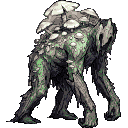
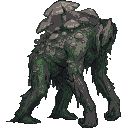
Revert the pixelate changes; restore the previous sprite output
The last pass changed three things at once — a chroma-key path, a lifted
ramp floor, and a per-subject contrast stretch — and on balance it made the
set worse. The lifted floor in particular turned dark edge pixels into a
visible grey fringe, so creatures that had been sitting cleanly on the panel
colour picked up backgrounds.

tool/pixelate.py, the prompts and art/README.md are back to fbf19df~1, and
all eleven sprites are regenerated with the previous settings.

⚠ Changing three variables in one pass is what made this hard to judge and
hard to unpick. One at a time from here.

The Hollow Stag's missing antlers are unaffected by any of this — rembg
removed them during background removal, before the palette is involved.

diff --git a/tool/pixelate.py b/tool/pixelate.py
@@ -87,35 +87,11 @@ BACKGROUND_DESATURATE = 0.45
 ALPHA_CUTOFF = 128
 
 
-# ⭐ Chroma key. Nothing in a natural bestiary is magenta, so it can never be
-# confused with the subject — including a birch-WHITE creature, which a white
-# background would eat.
-KEY_COLOUR = (255, 0, 255)
-KEY_TOLERANCE = 60
-
-
-def key_out(img: "Image.Image", tol: int = KEY_TOLERANCE) -> "Image.Image":
-    """Removes an exact background colour.
-
-    ⭐ **Lossless on the subject, and it keeps thin structures.** `rembg` is a
-    segmentation model and it guesses: it ate the Hollow Stag's antlers whole,
-    because branching shapes against a low-contrast background read as
-    background. A colour key cannot make that mistake.
-    """
-    px = np.asarray(img.convert("RGBA")).astype(np.int16)
-    dist = np.abs(px[:, :, :3] - np.array(KEY_COLOUR, dtype=np.int16)).sum(axis=2)
-    px[:, :, 3] = np.where(dist <= tol, 0, px[:, :, 3])
-    return Image.fromarray(px.astype(np.uint8), "RGBA")
-
-
 def cut_out(img: "Image.Image") -> "Image.Image":
     """Removes the background, leaving the subject on alpha.
 
-    ⚠ **Prefer `--key`.** This is a segmentation model and it guesses; on the
-    Hollow Stag it removed the antlers entirely. Use it only for art that was
-    generated without a keyable background.
-
-    ⚠ Lazily imported — `rembg` pulls in onnxruntime and a 176 MB model.
+    ⚠ Optional and lazily imported — `rembg` pulls in onnxruntime and a model
+    download, which is a lot to force on someone whose art already has alpha.
     """
     try:
         from rembg import remove
@@ -153,11 +129,7 @@ def element_colours() -> dict[str, tuple[int, int, int]]:
 def build_ramp(
     rgb: tuple[int, int, int],
     steps: int,
-    # ⚠ **Not near-black.** A ramp bottoming out at the panel colour crushes
-    # any creature that is mostly mid-tone — The Standing Green is green from
-    # head to foot, and the dark half of the Flora ramp swallowed its interior
-    # entirely. A lifted floor keeps detail inside the silhouette.
-    shadow: tuple[int, int, int] = (46, 42, 58),
+    shadow: tuple[int, int, int] = (18, 14, 26),
     light: tuple[int, int, int] = (255, 250, 240),
 ) -> list[tuple[int, int, int]]:
     """A dark-to-light ramp through one colour.
@@ -211,13 +183,10 @@ def to_sprite(
     palette: list[tuple[int, int, int]],
     size: int,
     cutout: bool = False,
-    key: bool = False,
 ) -> Image.Image:
     img = Image.open(src).convert("RGBA")
 
-    if key:
-        img = key_out(img)
-    elif cutout:
+    if cutout:
         img = cut_out(img).convert("RGBA")
 
     # ⚠ Alpha first, and kept out of the colour maths entirely.
@@ -239,12 +208,6 @@ def to_sprite(
 
     # Harden the edge before quantising, or the palette learns the halo.
     alpha = alpha.point(lambda a: 255 if a >= ALPHA_CUTOFF else 0)
-
-    # ⭐ Stretch the subject's own range to fill the ramp, measured over the
-    # OPAQUE pixels only. A flatly-lit generation uses a narrow band of values,
-    # and quantising that directly throws away most of the palette — which is
-    # what "the pixelate process removed details" actually was.
-    img = _stretch(img, alpha)
 
     # Remap colour onto the element palette. ⚠ dither=NONE.
     pal_img = Image.new("P", (1, 1))
@@ -315,20 +278,6 @@ def run_backgrounds(zone: str) -> None:
     print(f"  {matches[0].name} -> {dst.relative_to(ROOT)}  ({w}x{h})")
 
 
-def _stretch(img: "Image.Image", alpha: "Image.Image") -> "Image.Image":
-    """Linear contrast stretch over the subject, ignoring transparency."""
-    rgb = np.asarray(img.convert("RGB")).astype(np.float32)
-    mask = np.asarray(alpha) >= ALPHA_CUTOFF
-    if mask.sum() < 16:
-        return img
-    lum = rgb @ np.array([0.299, 0.587, 0.114], dtype=np.float32)
-    lo, hi = np.percentile(lum[mask], (2, 98))
-    if hi - lo < 8:
-        return img  # already flat; stretching would only amplify noise
-    scaled = (rgb - lo) * (255.0 / (hi - lo))
-    return Image.fromarray(scaled.clip(0, 255).astype(np.uint8), "RGB")
-
-
 def main() -> None:
     ap = argparse.ArgumentParser(description=__doc__)
     ap.add_argument("--zone", required=True, help="e.g. whispering_woods")
@@ -340,16 +289,9 @@ def main() -> None:
     ap.add_argument("--element", help="e.g. flora — creature mode only")
     ap.add_argument("--size", type=int, default=DEFAULT_SIZE)
     ap.add_argument(
-        "--key",
-        action="store_true",
-        help="remove a flat magenta background (preferred — exact, keeps "
-        "thin structures like antlers)",
-    )
-    ap.add_argument(
         "--cutout",
         action="store_true",
-        help="strip the background with rembg (guesses; use only when the art "
-        "has no keyable background)",
+        help="strip the background first (needed for generated scenes)",
     )
     args = ap.parse_args()
 
@@ -383,16 +325,14 @@ def main() -> None:
         if f.suffix.lower() in {".png", ".jpg", ".jpeg", ".webp"}
     )
     for src in sources:
-        sprite = to_sprite(
-            src, palette, args.size, cutout=args.cutout, key=args.key
-        )
+        sprite = to_sprite(src, palette, args.size, cutout=args.cutout)
         # ⭐ Always .png out, whatever went in — the creature id is the stem.
         dst = out_dir / f"{src.stem}.png"
         sprite.save(dst)
         made.append(src.stem)
         print(f"  {src.name} -> {dst.relative_to(ROOT)}  ({args.size}x{args.size})")
 
-    if made and not (args.cutout or args.key):
+    if made and not args.cutout:
         print(
             "\n⚠  ran without --cutout. If the source art has a background, "
             "it has just been pixelated along with the creature."

diff --git a/art/prompts/whispering_woods.md b/art/prompts/whispering_woods.md
@@ -1,36 +1,23 @@
 # Image prompts — Whispering Woods
 
 ⭐ **Paste-ready.** Each block is a complete prompt: house style plus that
-creature's description.
+creature's description. Nothing to stitch together.
 
-## ⚠ Generate on a FLAT MAGENTA background
+**Generate at 1024×1024**, transparent background if your tool supports it. If
+not, run `rembg` before the pipeline — the alpha handling assumes the
+background is already gone.
 
-The style line asks for pure `#FF00FF`, and that is load-bearing.
-
-⚠ **This replaces an earlier "plain mid-dark background", which cost real
-art.** Background removal was being done by `rembg`, a segmentation model that
-guesses — and against a low-contrast grey it **removed the Hollow Stag's
-antlers entirely**, branches, leaves and all. The sprite shipped as a stag with
-a bare head and nothing in the pipeline could recover it.
-
-⭐ **Magenta cannot be confused with anything in a forest bestiary**, so the
-background comes off with an exact colour key instead of a guess — lossless on
-the subject, and thin structures survive. ⚠ **White would not do**: the
-Listening Fawn is birch-white, and a white key would eat its body.
-
-**Generate at 1024×1024 or larger.** Save under the id in each heading, into
-`art/source/whispering_woods/`, then:
+⚠ **Save each file under the id in its heading**, into
+`art/source/whispering_woods/`. A test asserts art and roster agree in both
+directions, so a mistyped name fails the build rather than silently rendering
+nothing.
 
 ```sh
-python3 tool/pixelate.py --zone whispering_woods --element flora --key
+python3 tool/pixelate.py --zone whispering_woods --element flora
 ```
 
-⚠ `--key` for magenta art. `--cutout` is the old `rembg` path and remains only
-for art generated without a keyable background — it is the one that ate the
-antlers.
-
 ⚠ Descriptions come from [../../docs/BESTIARY_ART.md](../../docs/BESTIARY_ART.md).
-Edit them there and regenerate this file, or the two drift.
+Edit them there and regenerate this file, or the two will drift.
 
 ---
 
@@ -39,7 +26,7 @@ Edit them there and regenerate this file, or the two drift.
 `listening_fawn.png` — *common · Drudge · Flora*
 
 ```
-Digital illustration in the style of a naturalist's field plate. The creature is isolated on a COMPLETELY FLAT, SOLID, PURE MAGENTA background (hex #FF00FF) - a chroma key backdrop. Absolutely no scenery, no ground, no shadow cast on the background, no gradient, no vignette, no text, no border. Full body, three-quarter view, neutral standing pose, even diffuse lighting. Every part of the creature fully inside the frame, including thin extremities like antlers, horns and tendrils. Clear readable silhouette, strong value contrast between the creature and the magenta. Muted natural palette dominated by greens and bark browns. A deer-shaped creature the size of a large dog, woven from pale root and birch bark rather than flesh. Its legs are bundled rootlets; its joints bend like green wood. It has no eyes and no mouth - the head is a smooth knot of grain, tilted downward, with two long leaf-shaped ears angled at the ground. Moss over the shoulders. Standing still, head lowered, listening.
+Digital illustration in the style of a naturalist's field plate. The creature is isolated on a plain, flat, mid-dark background - no scenery, no ground line, no text, no border. Full body, three-quarter view, neutral standing pose, even diffuse lighting, no dramatic shadows. Clear readable silhouette. Muted natural palette dominated by greens and bark browns. A deer-shaped creature the size of a large dog, woven from pale root and birch bark rather than flesh. Its legs are bundled rootlets; its joints bend like green wood. It has no eyes and no mouth - the head is a smooth knot of grain, tilted downward, with two long leaf-shaped ears angled at the ground. Moss over the shoulders. Standing still, head lowered, listening.
 ```
 
 ## Thornback Sprite
@@ -47,7 +34,7 @@ Digital illustration in the style of a naturalist's field plate. The creature is
 `thornback_sprite.png` — *common · Skirmisher · Flora*
 
 ```
-Digital illustration in the style of a naturalist's field plate. The creature is isolated on a COMPLETELY FLAT, SOLID, PURE MAGENTA background (hex #FF00FF) - a chroma key backdrop. Absolutely no scenery, no ground, no shadow cast on the background, no gradient, no vignette, no text, no border. Full body, three-quarter view, neutral standing pose, even diffuse lighting. Every part of the creature fully inside the frame, including thin extremities like antlers, horns and tendrils. Clear readable silhouette, strong value contrast between the creature and the magenta. Muted natural palette dominated by greens and bark browns. A knee-high humanoid of tangled green briar, wiry and hunched, with long thin arms. A ridge of black thorns runs from the crown of its head down its spine. Small, dark, wet-looking eyes set deep in a face of woven stems. Caught mid-stride, low to the ground, as if about to bolt sideways.
+Digital illustration in the style of a naturalist's field plate. The creature is isolated on a plain, flat, mid-dark background - no scenery, no ground line, no text, no border. Full body, three-quarter view, neutral standing pose, even diffuse lighting, no dramatic shadows. Clear readable silhouette. Muted natural palette dominated by greens and bark browns. A knee-high humanoid of tangled green briar, wiry and hunched, with long thin arms. A ridge of black thorns runs from the crown of its head down its spine. Small, dark, wet-looking eyes set deep in a face of woven stems. Caught mid-stride, low to the ground, as if about to bolt sideways.
 ```
 
 ## Sporecap Shambler
@@ -55,7 +42,7 @@ Digital illustration in the style of a naturalist's field plate. The creature is
 `sporecap_shambler.png` — *common · Blighter · Flora*
 
 ```
-Digital illustration in the style of a naturalist's field plate. The creature is isolated on a COMPLETELY FLAT, SOLID, PURE MAGENTA background (hex #FF00FF) - a chroma key backdrop. Absolutely no scenery, no ground, no shadow cast on the background, no gradient, no vignette, no text, no border. Full body, three-quarter view, neutral standing pose, even diffuse lighting. Every part of the creature fully inside the frame, including thin extremities like antlers, horns and tendrils. Clear readable silhouette, strong value contrast between the creature and the magenta. Muted natural palette dominated by greens and bark browns. A slumped, roughly man-shaped mass of decaying wood and leaf litter, waist to chest height, walking on knuckles. Its whole back and shoulders are crowded with pale grey-brown mushroom caps of varying size, the largest split and leaking a fine dust. No visible face. Damp, dark, crumbling at the edges.
+Digital illustration in the style of a naturalist's field plate. The creature is isolated on a plain, flat, mid-dark background - no scenery, no ground line, no text, no border. Full body, three-quarter view, neutral standing pose, even diffuse lighting, no dramatic shadows. Clear readable silhouette. Muted natural palette dominated by greens and bark browns. A slumped, roughly man-shaped mass of decaying wood and leaf litter, waist to chest height, walking on knuckles. Its whole back and shoulders are crowded with pale grey-brown mushroom caps of varying size, the largest split and leaking a fine dust. No visible face. Damp, dark, crumbling at the edges.
 ```
 
 ## Bindweed Creeper
@@ -63,7 +50,7 @@ Digital illustration in the style of a naturalist's field plate. The creature is
 `bindweed_creeper.png` — *common · **Siphon** · Flora*
 
 ```
-Digital illustration in the style of a naturalist's field plate. The creature is isolated on a COMPLETELY FLAT, SOLID, PURE MAGENTA background (hex #FF00FF) - a chroma key backdrop. Absolutely no scenery, no ground, no shadow cast on the background, no gradient, no vignette, no text, no border. Full body, three-quarter view, neutral standing pose, even diffuse lighting. Every part of the creature fully inside the frame, including thin extremities like antlers, horns and tendrils. Clear readable silhouette, strong value contrast between the creature and the magenta. Muted natural palette dominated by greens and bark browns. A writhing knot of pale green vine about the size of a curled dog, moving as a single mass with no head. White trumpet-shaped flowers open along its length. The vine tips are fine, pink and rootlike, and they end in small sucking mouths - the one detail that must read clearly, because it is what the creature does.
+Digital illustration in the style of a naturalist's field plate. The creature is isolated on a plain, flat, mid-dark background - no scenery, no ground line, no text, no border. Full body, three-quarter view, neutral standing pose, even diffuse lighting, no dramatic shadows. Clear readable silhouette. Muted natural palette dominated by greens and bark browns. A writhing knot of pale green vine about the size of a curled dog, moving as a single mass with no head. White trumpet-shaped flowers open along its length. The vine tips are fine, pink and rootlike, and they end in small sucking mouths - the one detail that must read clearly, because it is what the creature does.
 ```
 
 ## Rootknuckle
@@ -71,7 +58,7 @@ Digital illustration in the style of a naturalist's field plate. The creature is
 `rootknuckle.png` — *common · Bruiser · Flora*
 
 ```
-Digital illustration in the style of a naturalist's field plate. The creature is isolated on a COMPLETELY FLAT, SOLID, PURE MAGENTA background (hex #FF00FF) - a chroma key backdrop. Absolutely no scenery, no ground, no shadow cast on the background, no gradient, no vignette, no text, no border. Full body, three-quarter view, neutral standing pose, even diffuse lighting. Every part of the creature fully inside the frame, including thin extremities like antlers, horns and tendrils. Clear readable silhouette, strong value contrast between the creature and the magenta. Muted natural palette dominated by greens and bark browns. A single enormous fist of braided tree root, roughly the size of a cow, punched up out of the soil and balanced on the wrist. Wet black earth still clinging in the crevices. Four thick knuckle-ridges of hard grey bark. No face, no eyes - it is a limb, not a body, and there is nothing above it.
+Digital illustration in the style of a naturalist's field plate. The creature is isolated on a plain, flat, mid-dark background - no scenery, no ground line, no text, no border. Full body, three-quarter view, neutral standing pose, even diffuse lighting, no dramatic shadows. Clear readable silhouette. Muted natural palette dominated by greens and bark browns. A single enormous fist of braided tree root, roughly the size of a cow, punched up out of the soil and balanced on the wrist. Wet black earth still clinging in the crevices. Four thick knuckle-ridges of hard grey bark. No face, no eyes - it is a limb, not a body, and there is nothing above it.
 ```
 
 ## Elderroot
@@ -79,7 +66,7 @@ Digital illustration in the style of a naturalist's field plate. The creature is
 `elderroot.png` — *mini · Champion · Flora*
 
 ```
-Digital illustration in the style of a naturalist's field plate. The creature is isolated on a COMPLETELY FLAT, SOLID, PURE MAGENTA background (hex #FF00FF) - a chroma key backdrop. Absolutely no scenery, no ground, no shadow cast on the background, no gradient, no vignette, no text, no border. Full body, three-quarter view, neutral standing pose, even diffuse lighting. Every part of the creature fully inside the frame, including thin extremities like antlers, horns and tendrils. Clear readable silhouette, strong value contrast between the creature and the magenta. Muted natural palette dominated by greens and bark browns. A broad, low creature the size of a bull, built from one ancient root system lifted clear of the ground and walking on six thick tapering legs. Deeply fissured grey bark. Where a head would be there is a dense woven crown of smaller roots, and inside it a single dull amber knot like a clouded eye.
+Digital illustration in the style of a naturalist's field plate. The creature is isolated on a plain, flat, mid-dark background - no scenery, no ground line, no text, no border. Full body, three-quarter view, neutral standing pose, even diffuse lighting, no dramatic shadows. Clear readable silhouette. Muted natural palette dominated by greens and bark browns. A broad, low creature the size of a bull, built from one ancient root system lifted clear of the ground and walking on six thick tapering legs. Deeply fissured grey bark. Where a head would be there is a dense woven crown of smaller roots, and inside it a single dull amber knot like a clouded eye.
 ```
 
 ## Mother Spore
@@ -87,7 +74,7 @@ Digital illustration in the style of a naturalist's field plate. The creature is
 `mother_spore.png` — *mini · Redoubt · Flora*
 
 ```
-Digital illustration in the style of a naturalist's field plate. The creature is isolated on a COMPLETELY FLAT, SOLID, PURE MAGENTA background (hex #FF00FF) - a chroma key backdrop. Absolutely no scenery, no ground, no shadow cast on the background, no gradient, no vignette, no text, no border. Full body, three-quarter view, neutral standing pose, even diffuse lighting. Every part of the creature fully inside the frame, including thin extremities like antlers, horns and tendrils. Clear readable silhouette, strong value contrast between the creature and the magenta. Muted natural palette dominated by greens and bark browns. A vast pale fungal dome, twice the height of a person and wider than it is tall, sitting flush against the forest floor. Its surface is soft, slightly luminous, and rippling like a lung. A skirt of thick white gills underneath. Small mushroom growths cluster around its base like offspring.
+Digital illustration in the style of a naturalist's field plate. The creature is isolated on a plain, flat, mid-dark background - no scenery, no ground line, no text, no border. Full body, three-quarter view, neutral standing pose, even diffuse lighting, no dramatic shadows. Clear readable silhouette. Muted natural palette dominated by greens and bark browns. A vast pale fungal dome, twice the height of a person and wider than it is tall, sitting flush against the forest floor. Its surface is soft, slightly luminous, and rippling like a lung. A skirt of thick white gills underneath. Small mushroom growths cluster around its base like offspring.
 ```
 
 ## Hollow Stag
@@ -95,7 +82,7 @@ Digital illustration in the style of a naturalist's field plate. The creature is
 `hollow_stag.png` — *mini · Executioner · Flora*
 
 ```
-Digital illustration in the style of a naturalist's field plate. The creature is isolated on a COMPLETELY FLAT, SOLID, PURE MAGENTA background (hex #FF00FF) - a chroma key backdrop. Absolutely no scenery, no ground, no shadow cast on the background, no gradient, no vignette, no text, no border. Full body, three-quarter view, neutral standing pose, even diffuse lighting. Every part of the creature fully inside the frame, including thin extremities like antlers, horns and tendrils. Clear readable silhouette, strong value contrast between the creature and the magenta. Muted natural palette dominated by greens and bark browns. A full-grown stag standing tall as a horse, its body a hollow shell of silver-grey bark with the whole ribcage open and empty - you can see the forest through it. Its antlers are living branches still in leaf. It moves with the poise of a real deer, which is worse.
+Digital illustration in the style of a naturalist's field plate. The creature is isolated on a plain, flat, mid-dark background - no scenery, no ground line, no text, no border. Full body, three-quarter view, neutral standing pose, even diffuse lighting, no dramatic shadows. Clear readable silhouette. Muted natural palette dominated by greens and bark browns. A full-grown stag standing tall as a horse, its body a hollow shell of silver-grey bark with the whole ribcage open and empty - you can see the forest through it. Its antlers are living branches still in leaf. It moves with the poise of a real deer, which is worse.
 ```
 
 ## The Murmur
@@ -103,7 +90,7 @@ Digital illustration in the style of a naturalist's field plate. The creature is
 `the_murmur.png` — *mini · Hexer · Flora*
 
 ```
-Digital illustration in the style of a naturalist's field plate. The creature is isolated on a COMPLETELY FLAT, SOLID, PURE MAGENTA background (hex #FF00FF) - a chroma key backdrop. Absolutely no scenery, no ground, no shadow cast on the background, no gradient, no vignette, no text, no border. Full body, three-quarter view, neutral standing pose, even diffuse lighting. Every part of the creature fully inside the frame, including thin extremities like antlers, horns and tendrils. Clear readable silhouette, strong value contrast between the creature and the magenta. Muted natural palette dominated by greens and bark browns. Barely a body: a person-sized column of hanging root-hair and grey-green moss suspended just clear of the ground, drifting. Within the tangle, dozens of small dark hollows like open mouths at different heights. It should look like something you would only notice because it made a sound.
+Digital illustration in the style of a naturalist's field plate. The creature is isolated on a plain, flat, mid-dark background - no scenery, no ground line, no text, no border. Full body, three-quarter view, neutral standing pose, even diffuse lighting, no dramatic shadows. Clear readable silhouette. Muted natural palette dominated by greens and bark browns. Barely a body: a person-sized column of hanging root-hair and grey-green moss suspended just clear of the ground, drifting. Within the tangle, dozens of small dark hollows like open mouths at different heights. It should look like something you would only notice because it made a sound.
 ```
 
 ## Heartwood
@@ -111,7 +98,7 @@ Digital illustration in the style of a naturalist's field plate. The creature is
 `heartwood.png` — *boss · Juggernaut · Flora*
 
 ```
-Digital illustration in the style of a naturalist's field plate. The creature is isolated on a COMPLETELY FLAT, SOLID, PURE MAGENTA background (hex #FF00FF) - a chroma key backdrop. Absolutely no scenery, no ground, no shadow cast on the background, no gradient, no vignette, no text, no border. Full body, three-quarter view, neutral standing pose, even diffuse lighting. Every part of the creature fully inside the frame, including thin extremities like antlers, horns and tendrils. Clear readable silhouette, strong value contrast between the creature and the magenta. Muted natural palette dominated by greens and bark browns. An enormous ancient tree that has pulled itself half out of the earth, four storeys tall, walking on a splayed mass of root. Its trunk is split vertically into a deep vertical cleft lined with pale, wet, living wood. The canopy is full and healthy. Everything below the canopy is a wound.
+Digital illustration in the style of a naturalist's field plate. The creature is isolated on a plain, flat, mid-dark background - no scenery, no ground line, no text, no border. Full body, three-quarter view, neutral standing pose, even diffuse lighting, no dramatic shadows. Clear readable silhouette. Muted natural palette dominated by greens and bark browns. An enormous ancient tree that has pulled itself half out of the earth, four storeys tall, walking on a splayed mass of root. Its trunk is split vertically into a deep vertical cleft lined with pale, wet, living wood. The canopy is full and healthy. Everything below the canopy is a wound.
 ```
 
 ## The Standing Green
@@ -119,5 +106,5 @@ Digital illustration in the style of a naturalist's field plate. The creature is
 `the_standing_green.png` — *boss · Aspect · Flora*
 
 ```
-Digital illustration in the style of a naturalist's field plate. The creature is isolated on a COMPLETELY FLAT, SOLID, PURE MAGENTA background (hex #FF00FF) - a chroma key backdrop. Absolutely no scenery, no ground, no shadow cast on the background, no gradient, no vignette, no text, no border. Full body, three-quarter view, neutral standing pose, even diffuse lighting. Every part of the creature fully inside the frame, including thin extremities like antlers, horns and tendrils. Clear readable silhouette, strong value contrast between the creature and the magenta. Muted natural palette dominated by greens and bark browns. A human figure, slightly too tall and slightly too thin, grown entirely from living plants - the proportions right, the posture right, the stillness wrong. Face smooth and featureless, grass and small white flowers where hair would be. Unsettling because it is nearly correct, not because it is monstrous. Arms at its sides. Standing, facing the viewer.
+Digital illustration in the style of a naturalist's field plate. The creature is isolated on a plain, flat, mid-dark background - no scenery, no ground line, no text, no border. Full body, three-quarter view, neutral standing pose, even diffuse lighting, no dramatic shadows. Clear readable silhouette. Muted natural palette dominated by greens and bark browns. A human figure, slightly too tall and slightly too thin, grown entirely from living plants - the proportions right, the posture right, the stillness wrong. Face smooth and featureless, grass and small white flowers where hair would be. Unsettling because it is nearly correct, not because it is monstrous. Arms at its sides. Standing, facing the viewer.
 ```

diff --git a/art/README.md b/art/README.md
@@ -30,18 +30,9 @@ under green moss, and against a Flora-only ramp both collapsed into the same
 green. The neutral ramp is what lets bark, bone, stone and ash survive while
 the element hue still says which zone you are in.
 
-⚠ **Generate on flat magenta and use `--key`.** It is an exact colour match,
-so it is lossless on the subject and thin structures survive.
-
-⚠ **`--cutout` is the fallback and it GUESSES.** `rembg` is a segmentation
-model; against the low-contrast grey background an earlier prompt asked for, it
-removed the Hollow Stag's antlers entirely and nothing downstream could recover
-them. Use it only for art with no keyable background.
-
-⭐ **The pipeline also stretches each subject's own tonal range** before
-quantising, measured over opaque pixels only. A flatly-lit generation occupies
-a narrow band of values, and quantising that directly throws away most of the
-palette — which is what "the pixelate process removed details" actually was.
+⚠ **`--cutout` unless the art already has a transparent background.** A
+generator returns a scene; the pipeline's trim and composite assume the
+background is gone, so without it the scenery gets pixelated too.
 
 ## Backgrounds
 
